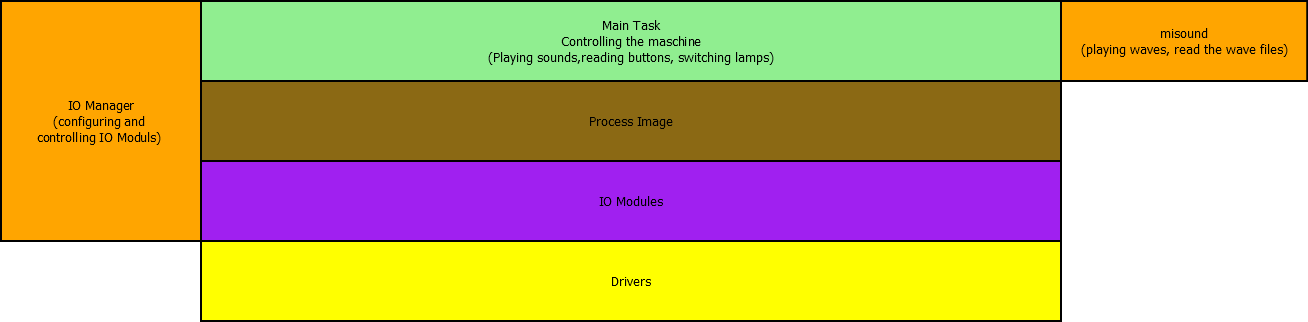
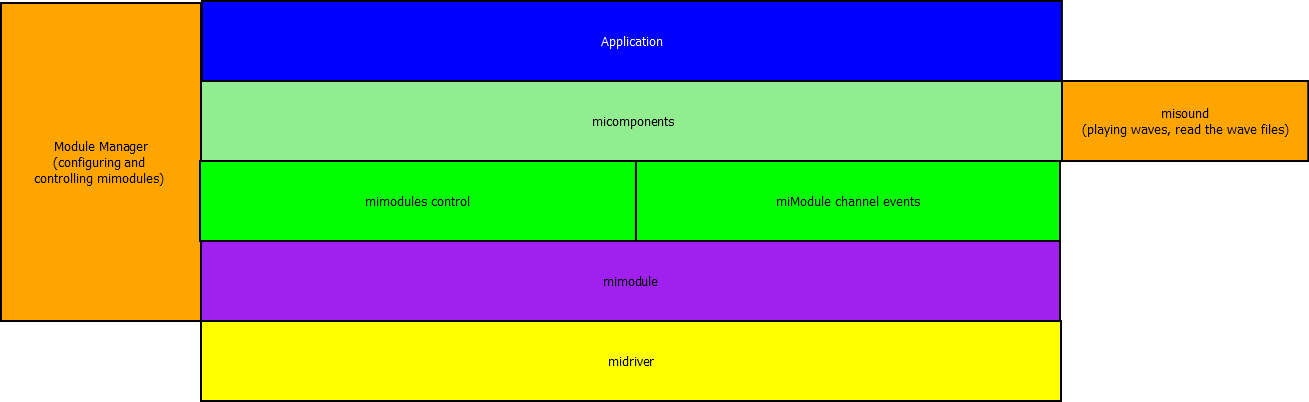
update readme

diff --git a/README.md b/README.md
@@ -14,6 +14,7 @@ The control software is written in C++.
 
 The first control software was satisfactory in function, but not very flexible to reflect the demands of the artists and the diversity of the modules.
 Therefore, the software prototype is now divided into different libraries in order to obtain greater flexibility.
+The io's using are now event driven instead using an io process image (miio is deprecated)
 
 #yocto 
 The libraries are included in the meta-macchinaimaginis yocto layer
@@ -28,9 +29,9 @@ Further Informations are find in the library repository itself
 
 ## drivers -> midriver
 Contains the low level acces to the Raspberry PI Interfaces and GPIO.
-Used by miio
-## io modules /io manager -> miio
-Contains the abstraction of the hardware interfaces and managing of the processimage the io modules and io module calls. 
+Used by mimodules
+## io modules  -> mimodules
+Contains the abstraction of the hardware interfaces and managing of the mimodules 
 ## sound -> misound
 Contains classes for playing sounds
 ## timers,thread handling -> miutils
@@ -42,8 +43,4 @@ Contains classses for Timing, Threading ...
 ## hardware abstraction
 As with a PLC, the inputs and outputs are written to a process image or read from the process image.
 For this purpose, the hardware interfaces are standardized with a C++ interface.
-The control software uses the process image to set or use the inputs and outputs.
-The IO modules are configured using strings, since no standardization is possible here.
-
-
-![alt text](https://github.com/SigiMcArcel/macchina-imaginis-framework/blob/main/blob/IOModulConcept.png)
+The control software uses the mimodules to set outputs and uses events (callbacks) for the inputs.
